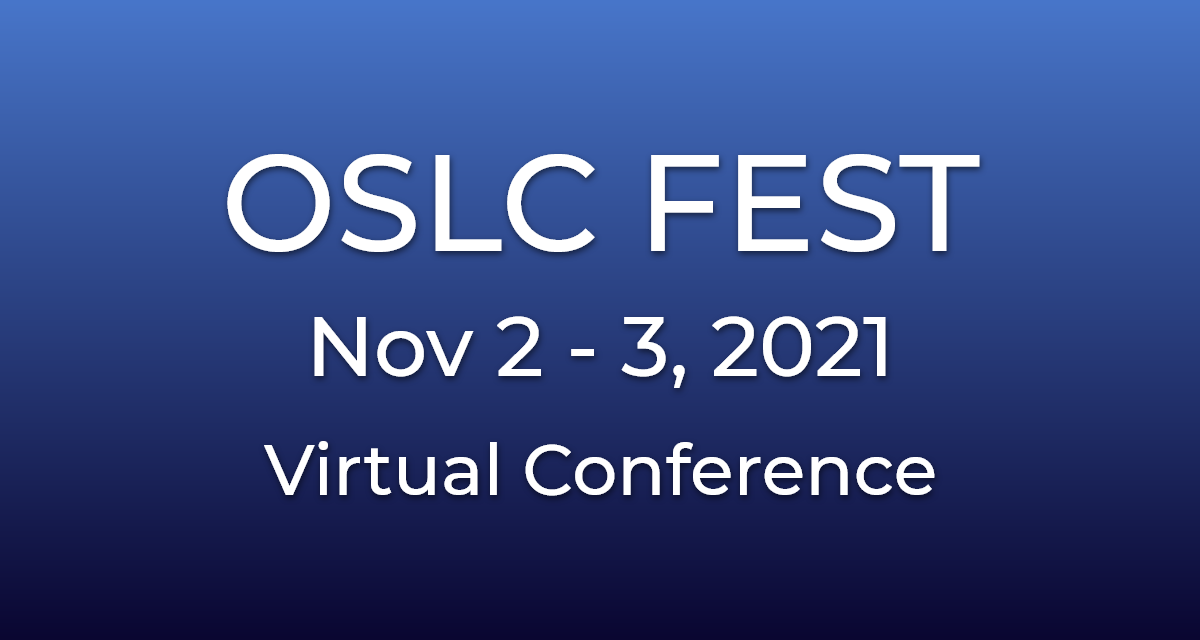
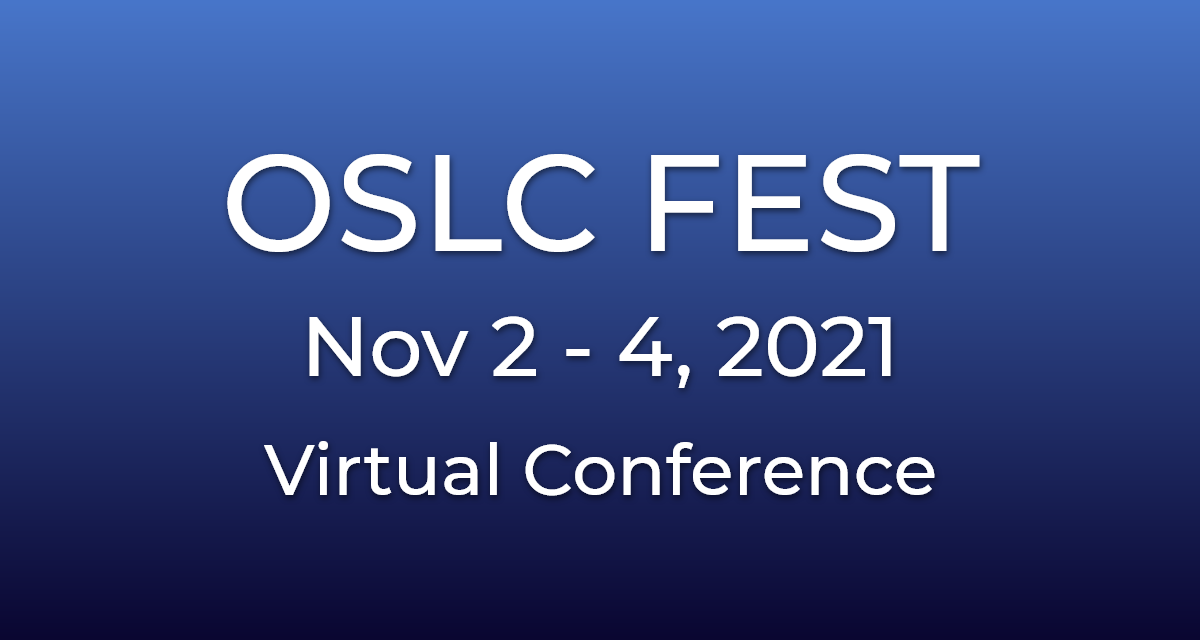
Updating Production Branch

Changed region(s): [[0.4933, 0.4688, 0.7708, 0.625], [0.2467, 0.5, 0.4625, 0.5938]]

diff --git a/public/save-the-date/index.html b/public/save-the-date/index.html
@@ -20,15 +20,15 @@
   
   <meta name="twitter:card" content="summary_large_image">
   <meta name="twitter:site" content="@oslcfest">
-  <meta name="twitter:title" content="OSLC Fest May 18 - 20, 2020">
+  <meta name="twitter:title" content="OSLC Fest Nov 2 - 4, 2021">
   <meta name="twitter:description" content="The second conference on OSLC & LinkedData (OSLCFest) is comming, join us!">
-  <meta name="twitter:image" content="http://oslcfest.org/images/banner-2020.png">
+  <meta name="twitter:image" content="http://oslcfest.org/images/banner-2021.png">
 
   
-  <meta property="og:title" content="OSLC Fest May 18 - 20, 2020" />
+  <meta property="og:title" content="OSLC Fest Nov 2 - 4, 2021" />
   <meta property="og:type" content="article" />
   <meta property="og:url" content="http://oslcfest.org/" />
-  <meta property="og:image" content="http://oslcfest.org/images/banner-2020.png" />
+  <meta property="og:image" content="http://oslcfest.org/images/banner-2021.png" />
   <meta property="og:image:width" content="1200px" />
   <meta property="og:image:height" content="640px" />
   <meta property="og:description" content="The second conference on OSLC & LinkedData (OSLCFest) is comming, join us!" /> 
@@ -72,7 +72,7 @@
                       <font face="Times New Roman,serif" size="3">
                         <span style="font-size:12pt;">
                           <a href="http://oslcfest.org" target="_blank" style="text-decoration: none;">
-                            <img data-imagetype="External" src="/images/email/email-banner.png" width="100%" alt="OSLC FEST | Stockholm, Sweden | 5-6 November 2018">
+                            <img data-imagetype="External" src="/images/email/email-banner-2021.png" width="100%" alt="OSLC FEST | Stockholm, Sweden | 2-4 November 2021">
                           </a>
                         </span>
                       </font>
